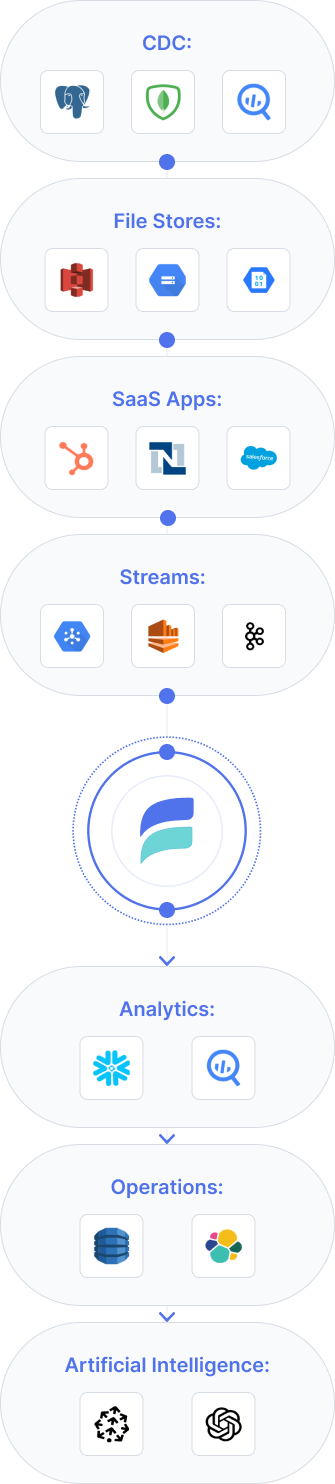
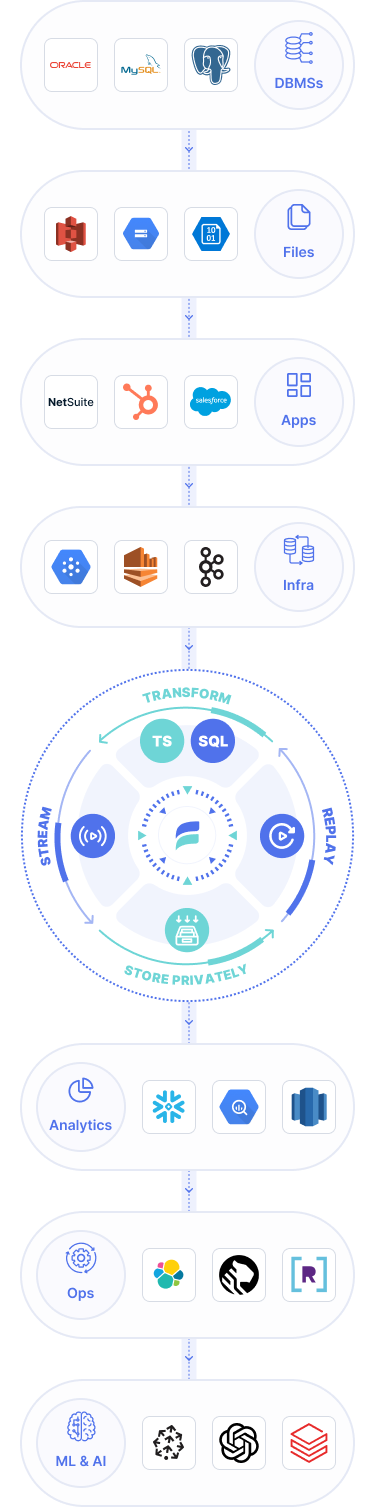
feat: add new section three

diff --git a/src/components/Homepage/SectionTwo/index.tsx b/src/components/Homepage/SectionTwo/index.tsx
@@ -1,12 +1,11 @@
 import { useMediaQuery, useTheme } from '@mui/material';
 import { StaticImage } from "gatsby-plugin-image";
 import * as React from "react";
-import { isMobile as isRealMobile } from 'react-device-detect';
 import { ColoredText, Container, FlowImageWrapper, Header, Step, StepDescription, StepIcon, StepOneIcon, StepThreeIcon, StepTitle, StepTwoIcon, Steps, Subtitle, Title } from "./styles";
 
 const SectionTwo = () => {
     const theme = useTheme();
-    const isMobile = isRealMobile || useMediaQuery(theme.breakpoints.down('sm'));
+    const isMobile = useMediaQuery(theme.breakpoints.down('sm'));
 
     return (
         <Container>
@@ -19,17 +18,21 @@ const SectionTwo = () => {
                     <ColoredText>
                         transform{" "}
                     </ColoredText>
-                    your data across{" "}
+                    data with the only CDC platform built for{" "}
                     <ColoredText>
-                        apps, analytics, and AI{" "}
+                        ops
                     </ColoredText>
-                    with the only{" "}
+                    ,{" "}
                     <ColoredText>
-                        unified data pipeline
+                        analytics
+                    </ColoredText>
+                    , and{" "}
+                    <ColoredText>
+                        AI
                     </ColoredText>
                 </Title>
                 <Subtitle>
-                    Capture from Clouds, Databases and SaaS apps, create real-time transformations and materialized views, for a consistent, exact copy of your data powering both analytics and operations.
+                    Capture, transform, and materialize in real-time for an exact view of your data and every change that powers analytics and operations.
                 </Subtitle>
             </Header>
             <Steps>
@@ -39,10 +42,10 @@ const SectionTwo = () => {
                     </StepIcon>
                     <div>
                         <StepTitle>
-                            <span>01</span>Extract at &#62;50mb/s
+                            <span>01</span>Capture
                         </StepTitle>
                         <StepDescription>
-                            Access 300+ performance connectors. Choose from Estuary CDC, bring your own, or import AirByte/Stich.
+                            Use 100s of no-code connectors for streaming CDC, real-time, or batch
                         </StepDescription>
                     </div>
                 </Step>
@@ -53,10 +56,10 @@ const SectionTwo = () => {
                     </StepIcon>
                     <div>
                         <StepTitle>
-                            <span>02</span>Store and Transform
+                            <span>02</span>Stream-store-replay
                         </StepTitle>
                         <StepDescription>
-                            Deliver data exactly-once, exactly how it’s needed with SQL or Typescript using own cloud data lake.
+                            Stream and store in your own storage, then replay any time
                         </StepDescription>
                     </div>
                 </Step>
@@ -67,10 +70,10 @@ const SectionTwo = () => {
                     </StepIcon>
                     <div>
                         <StepTitle>
-                            <span>03</span>Real-time Delivery
+                            <span>03</span>Materialize
                         </StepTitle>
                         <StepDescription>
-                            Real-time or batch refreshes of your data, cleaned, verified, de-duped, and ready for decisioning.
+                            Load data at different speeds into many destinations for analytics, ops, and AI
                         </StepDescription>
                     </div>
                 </Step>

diff --git a/src/components/Homepage/SectionTwo/styles.ts b/src/components/Homepage/SectionTwo/styles.ts
@@ -29,13 +29,13 @@ export const Title = styled.h2`
   line-height: 48px;
   text-align: center;
   text-transform: uppercase;
-  margin: 0;
+  margin: 0 48px;
 
   @media (max-width: 810px) {
     font-size: 1.75rem;
     font-weight: 700;
     line-height: 33.6px;
-    text-align: left;
+    margin: 0;
   }
 `
 
@@ -53,8 +53,6 @@ export const Subtitle = styled.p`
 
   @media (max-width: 810px) {
     font-size: 1rem;
-    text-align: left;
-    margin-right: auto;
   }
 `
 
@@ -109,53 +107,48 @@ const lineBaseStyling = `
   content: "";
   position: absolute;
   right: -14px;
-  height: 78px;
+  height: 62px;
   width: 4px;
   border-right: 4px dotted #D7DCE5;
 
-  @media (max-width: 1495px) {
-    right: -20px;
-    height: 92px;
+  @media (max-width: 1565px) {
+    right: -18px;
+    height: 78px;
   }
 
-  @media (max-width: 1460px) {
-    right: -20px;
-    height: 104px;
-  }
-
-  @media (max-width: 1276px) {
-    right: -26px;
-    height: 118px;
+  @media (max-width: 1313px) {
+    right: -18px;
+    height: 90px;
   }
 
   @media (max-width: 1188px) {
-    right: -10px;
-    height: 60px;
+    right: -8px;
+    height: 46px;
   }
 
-  @media (max-width: 810px) {
+  @media (max-width: 829px) {
     right: -12px;
     height: 62px;
   }
 
-  @media (max-width: 538px) {
-    right: -16px;
-    height: 77px;
+  @media (max-width: 503px) {
+    right: -20px;
+    height: 78px;
   }
 
-  @media (max-width: 446px) {
-    right: -20px;
+  @media (max-width: 438px) {
+    right: -22px;
     height: 88px;
   }
 
-  @media (max-width: 399px) {
-    right: -22px;
-    height: 98px;
+  @media (max-width: 425px) {
+    right: -20px;
+    height: 78px;
   }
 
-  @media (max-width: 382px) {
-    right: -25px;
-    height: 119px;
+  @media (max-width: 390px) {
+    right: -22px;
+    height: 88px;
   }
 
   @media (max-width: 358px) {
@@ -167,7 +160,7 @@ export const Step = styled.div`
   display: flex;
   gap: 16px;
   width: 33%;
-  height: 160px;
+  height: 130px;
   border: 4px dotted #D7DCE5;
   border-radius: 16px;
   padding: 16px;
@@ -175,41 +168,37 @@ export const Step = styled.div`
   position: relative;
   border-right: none;
 
-  @media (max-width: 1495px) {
-    height: 190px;
+  @media (max-width: 1565px) {
+    height: 160px;
   }
 
-  @media (max-width: 1460px) {
-    height: 210px;
-  }
-
-  @media (max-width: 1276px) {
-    height: 240px;
+  @media (max-width: 1313px) {
+    height: 185px;
   }
 
   @media (max-width: 1188px) {
     width: 100%;
-    height: 128px;
+    height: 100px;
   }
 
-  @media (max-width: 810px) {
+  @media (max-width: 829px) {
     height: 130px;
   }
 
-  @media (max-width: 538px) {
+  @media (max-width: 503px) {
     height: 160px;
   }
 
-  @media (max-width: 446px) {
+  @media (max-width: 438px) {
     height: 180px;
   }
 
-  @media (max-width: 399px) {
-    height: 200px;
+  @media (max-width: 425px) {
+    height: 160px;
   }
 
-  @media (max-width: 382px) {
-    height: 240px;
+  @media (max-width: 390px) {
+    height: 180px;
   }
 
   @media (max-width: 358px) {
